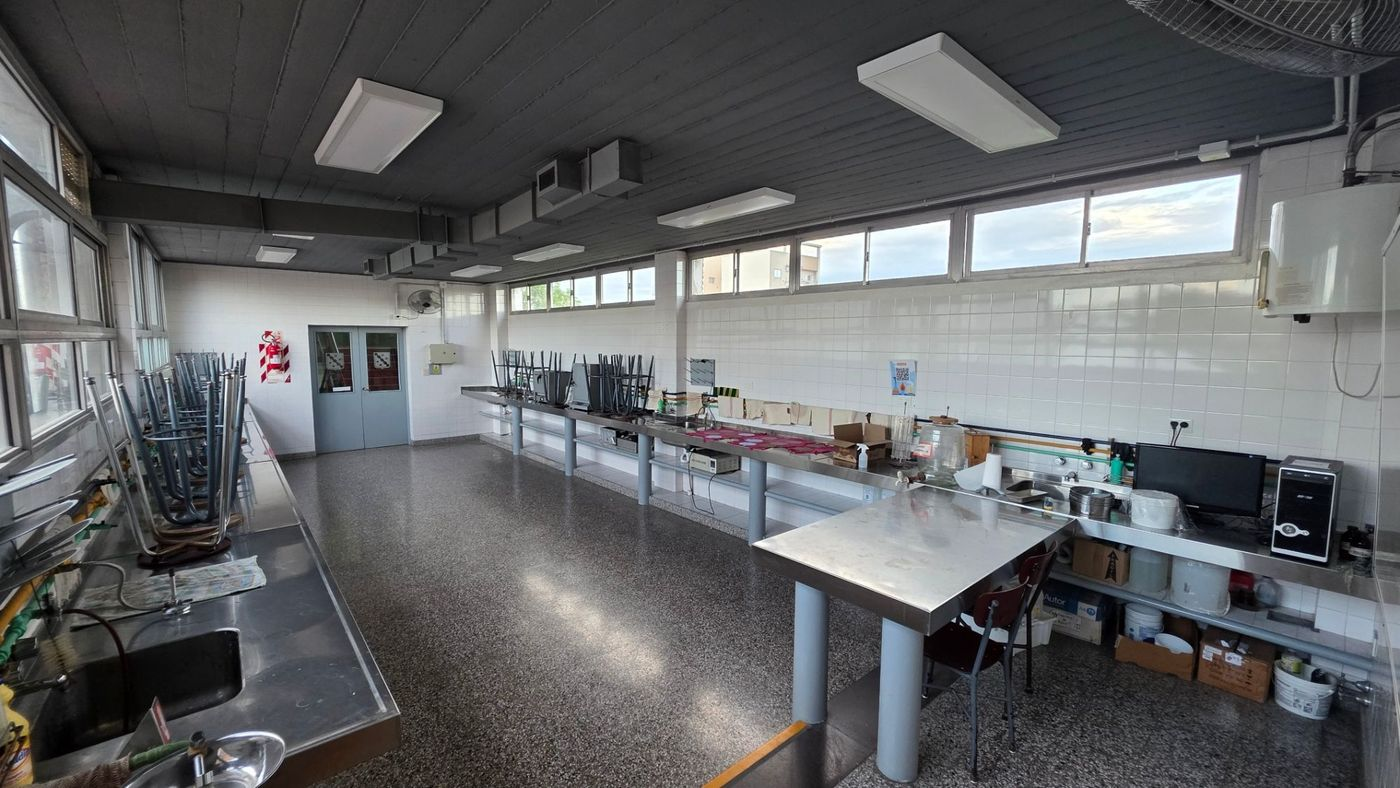
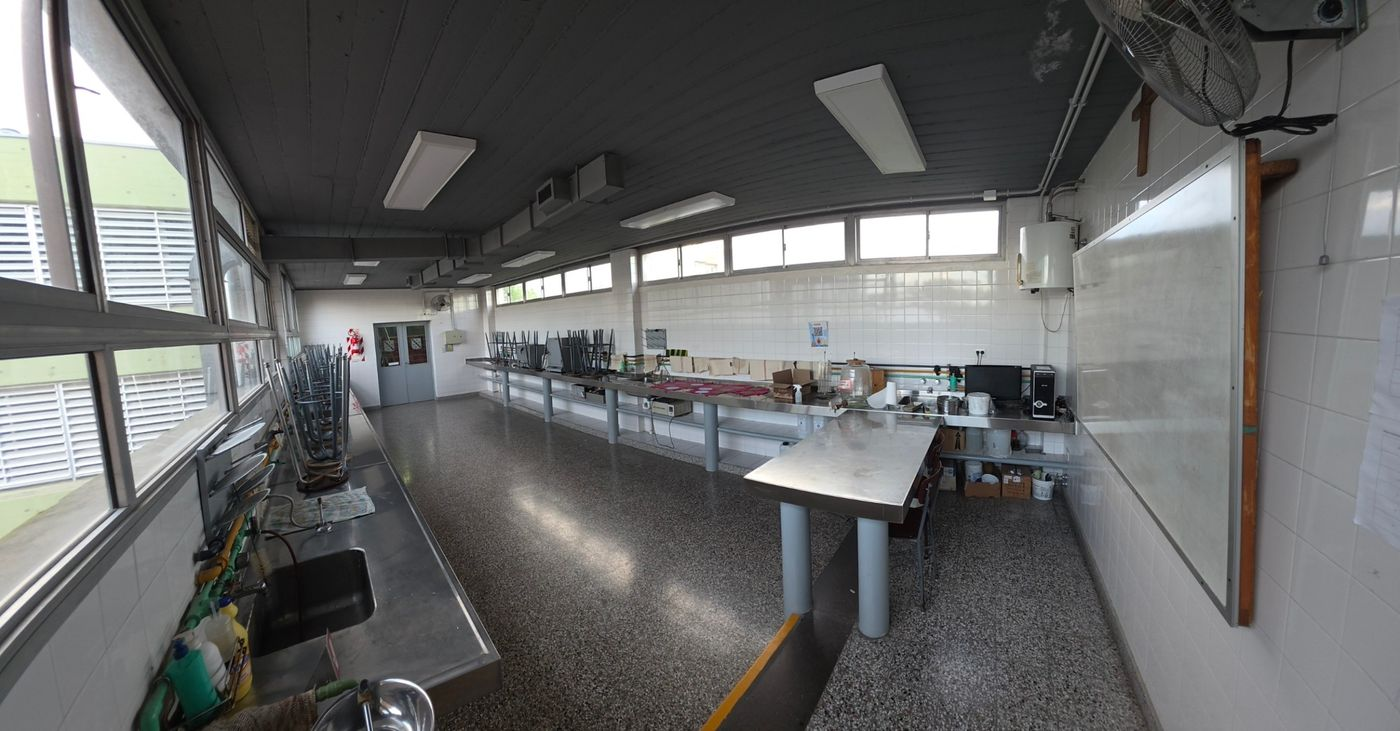
Usa la foto panorámica del laboratorio y destaca frases clave
Reemplaza la foto del aula-laboratorio por la panorámica y marca en negrita las ideas principales de las diapositivas 12 (Evidencias) y 15 (Sistematización).

diff --git a/index.html b/index.html
@@ -316,7 +316,7 @@
   <div class="head"><div><span class="eyebrow" data-a>Diagnóstico · registro fotográfico</span><h2 data-a style="--i:1">Los espacios del laboratorio principal</h2></div><span class="num">09</span></div>
   <div class="body photos">
     <figure class="photo p-wide" data-a style="--i:2">
-      <button class="zoom" type="button" aria-label="Ampliar foto: Aula-laboratorio"><img src="assets/img/lab/laboratorio-piletas.jpg" width="1400" height="788" decoding="async" alt="Aula-laboratorio con mesadas de acero inoxidable y piletas a lo largo de las paredes, banquetas apiladas, una mesa central y una computadora al fondo."></button>
+      <button class="zoom" type="button" aria-label="Ampliar foto: Aula-laboratorio"><img src="assets/img/lab/laboratorio-piletas.jpg" width="1400" height="731" decoding="async" alt="Aula-laboratorio con mesadas de acero inoxidable y piletas a lo largo de las paredes, banquetas apiladas, una mesa central, una computadora al fondo y una pizarra en la pared."></button>
       <figcaption><span class="eyebrow">Aula-laboratorio</span>Mesadas con piletas para el trabajo experimental</figcaption>
     </figure>
     <figure class="photo p-tall" data-a style="--i:3">
@@ -381,11 +381,11 @@
   <div class="head"><div><span class="eyebrow" data-a>Evidencias · fase de diagnóstico</span><h2 data-a style="--i:1">Qué recolectamos y cómo lo interpretamos</h2></div><span class="num">12</span></div>
   <div class="body ev" data-a style="--i:2">
     <div class="h">Tipo de evidencia</div><div class="h">Descripción breve</div><div class="h">Interpretación</div>
-    <div class="t">Conversación informal (cuaderno de campo)</div><div>Conversación breve de Pedaci con un docente colega del área de Química sobre infraestructura, equipamiento y organización de los espacios entre modalidades y turnos.</div><div class="i">Hay infraestructura competente y software disponible; el acceso está condicionado por la relación dispositivos y estudiantes y por la coordinación entre áreas.</div>
-    <div class="t">Relevamiento de infraestructura</div><div>Dos laboratorios de química: el principal con nueve equipos con internet, piletas, microbiología y depósito; el segundo con islas para 35, compartido con la básica. Proyector, televisor y seguridad completa.</div><div class="i">La limitación no es la carencia de recursos, sino su disponibilidad temporal y la estrategia didáctica de uso.</div>
-    <div class="t">Caracterización del equipo docente</div><div>Ingenieros químicos, licenciados, técnicos y profesores.</div><div class="i">Confirma un sólido conocimiento disciplinar, pedagógico y tecnopedagógico del contenido (Mishra y Koehler, 2006).</div>
-    <div class="t">Análisis documental</div><div>Proyecto educativo, acuerdo de convivencia, planificaciones y turnos.</div><div class="i">El marco restrictivo y la presión sobre los espacios refuerzan un uso tradicional.</div>
-    <div class="t">Profundización del testimonio (octubre)</div><div>Celular con función definida, roles por pileta o por trabajo a realizar, GeoGebra, ofimática e IA, video de proceso como evidencia, mensaje fijado en Microsoft Teams, que el colega propone evolucionar hacia un repositorio más completo.</div><div class="i">Valida que el obstáculo es de diseño didáctico: con decisiones de diseño, la dispersión disminuyó en cierta medida.</div>
+    <div class="t">Conversación informal (cuaderno de campo)</div><div>Conversación breve de Pedaci con un docente colega del área de Química sobre infraestructura, equipamiento y <strong>organización de los espacios entre modalidades y turnos</strong>.</div><div class="i">Hay infraestructura competente y software disponible; <strong>el acceso está condicionado</strong> por la relación dispositivos y estudiantes y por la coordinación entre áreas.</div>
+    <div class="t">Relevamiento de infraestructura</div><div>Dos laboratorios de química: el principal con <strong>nueve equipos con internet</strong>, piletas, microbiología y depósito; el segundo con <strong>islas para 35</strong>, compartido con la básica. Proyector, televisor y seguridad completa.</div><div class="i">La limitación no es la carencia de recursos, sino su <strong>disponibilidad temporal</strong> y la <strong>estrategia didáctica de uso</strong>.</div>
+    <div class="t">Caracterización del equipo docente</div><div>Ingenieros químicos, licenciados, técnicos y profesores.</div><div class="i">Confirma un <strong>sólido conocimiento disciplinar, pedagógico y tecnopedagógico</strong> del contenido (Mishra y Koehler, 2006).</div>
+    <div class="t">Análisis documental</div><div><strong>Proyecto educativo, acuerdo de convivencia</strong>, planificaciones y turnos.</div><div class="i">El marco restrictivo y la presión sobre los espacios <strong>refuerzan un uso tradicional</strong>.</div>
+    <div class="t">Profundización del testimonio (octubre)</div><div><strong>Celular con función definida</strong>, roles por pileta o por trabajo a realizar, GeoGebra, ofimática e IA, <strong>video de proceso como evidencia</strong>, mensaje fijado en Microsoft Teams, que el colega propone evolucionar hacia un repositorio más completo.</div><div class="i">Valida que <strong>el obstáculo es de diseño didáctico</strong>: con decisiones de diseño, <strong>la dispersión disminuyó en cierta medida</strong>.</div>
   </div>
   <div class="foot"><span>PrTEd · Grupo 3</span><span class="fr"><span>Act. 4 · 2026</span><i class="utn" role="img" aria-label="Logo UTN"></i></span></div>
   <aside class="notes">Cinco tipos de evidencia convergen en la misma conclusión: el problema es de diseño didáctico. La última fila es la que valida la hipótesis.</aside>
@@ -506,10 +506,10 @@
   <div class="head"><div><span class="eyebrow" data-a>Sistematización y análisis</span><h2 data-a style="--i:1">Del hallazgo a la proyección</h2></div><span class="num">15</span></div>
   <div class="body sys" data-a style="--i:2">
     <div class="h">Aspecto</div><div class="h">Aprendizajes y hallazgos</div><div class="h">Proyección futura</div>
-    <div class="t">Planificación y coherencia</div><div>Coherente en marco teórico y diagnóstico; su aplicación precisa condiciones institucionales verificadas.</div><div class="p">Prueba piloto acotada, con un curso y un docente.</div>
-    <div class="t">Gestión de recursos</div><div>Equipamiento correcto y variado, condicionado por nueve computadoras para 20 a 35 estudiantes y la coordinación de espacios.</div><div class="p">Planificar espacios y combinar el celular regulado con el equipamiento institucional, bajo una visión didáctica y pedagógica verificada.</div>
-    <div class="t">Dinámica grupal y participación</div><div>El trabajo en equipo distribuyó los roles profesionales. En el aula, desinterés sostenido pese a la tecnología; roles y funciones definidas al celular lo mejoran en cierta medida.</div><div class="p">ABP y aprendizaje experiencial orientados a la motivación, con roles definidos y registro audiovisual del proceso.</div>
-    <div class="t">Resultados y mejoras</div><div>Sin implementación propia; el caso análogo muestra una mejora parcial: la dispersión disminuyó en cierta medida (cuaderno de campo, Anexo I, P4 y P8; fragmentos de bitácora).</div><div class="p">Roles y video de proceso en las secuencias; evolucionar el mensaje fijado en Teams hacia un repositorio más robusto (web propia o Padlet) con videotutoriales; medición en la prueba piloto.</div>
+    <div class="t">Planificación y coherencia</div><div>Coherente en marco teórico y diagnóstico; su aplicación precisa <strong>condiciones institucionales verificadas</strong>.</div><div class="p"><strong>Prueba piloto acotada</strong>, con un curso y un docente.</div>
+    <div class="t">Gestión de recursos</div><div>Equipamiento correcto y variado, condicionado por <strong>nueve computadoras para 20 a 35 estudiantes</strong> y la coordinación de espacios.</div><div class="p">Planificar espacios y <strong>combinar el celular regulado con el equipamiento institucional</strong>, bajo una visión didáctica y pedagógica verificada.</div>
+    <div class="t">Dinámica grupal y participación</div><div>El trabajo en equipo distribuyó los roles profesionales. En el aula, <strong>desinterés sostenido pese a la tecnología</strong>; <strong>roles y funciones definidas al celular</strong> lo mejoran en cierta medida.</div><div class="p">ABP y aprendizaje experiencial orientados a la motivación, con <strong>roles definidos y registro audiovisual del proceso</strong>.</div>
+    <div class="t">Resultados y mejoras</div><div>Sin implementación propia; el caso análogo muestra una <strong>mejora parcial</strong>: la dispersión disminuyó en cierta medida (cuaderno de campo, Anexo I, P4 y P8; fragmentos de bitácora).</div><div class="p">Roles y video de proceso en las secuencias; evolucionar el mensaje fijado en Teams hacia un <strong>repositorio más robusto</strong> (web propia o Padlet) con videotutoriales; <strong>medición en la prueba piloto</strong>.</div>
   </div>
   <div class="foot"><span>PrTEd · Grupo 3</span><span class="fr"><span>Act. 4 · 2026</span><i class="utn" role="img" aria-label="Logo UTN"></i></span></div>
   <aside class="notes">Cada hallazgo tiene su evidencia y su proyección. Lo que proponemos a futuro es acotado y medible: una prueba piloto con los indicadores previstos.</aside>
